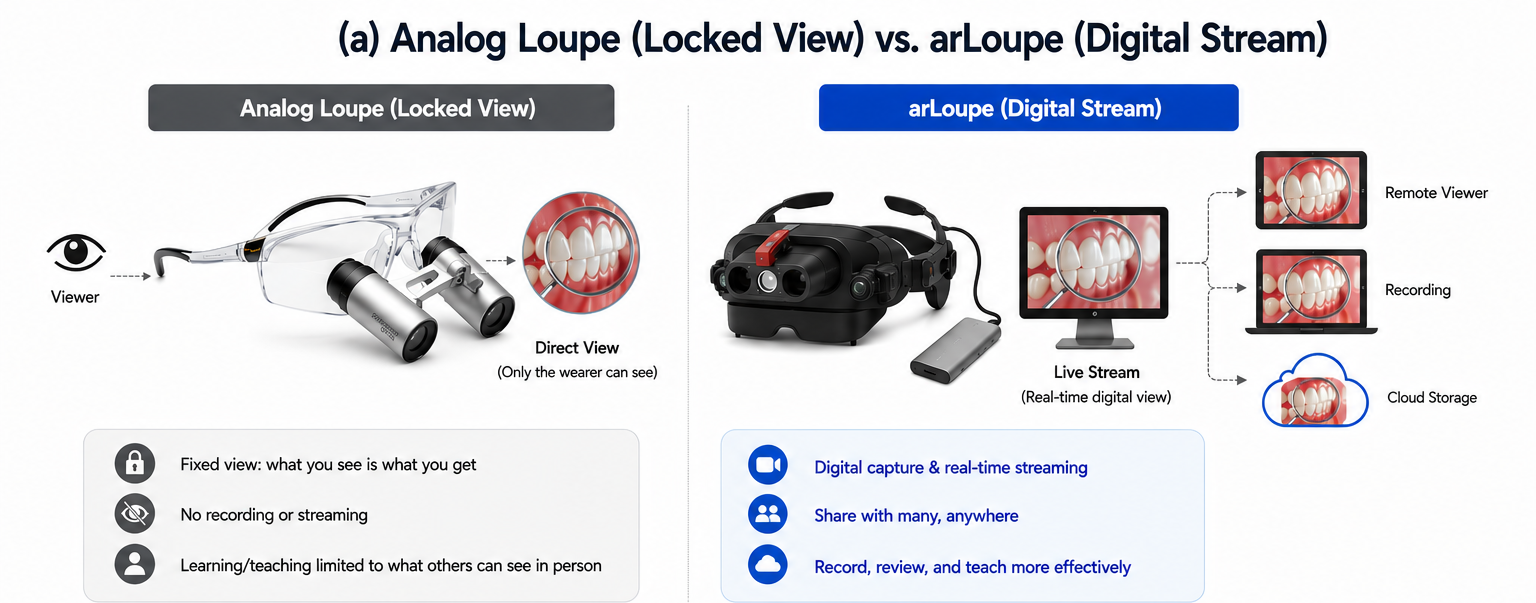
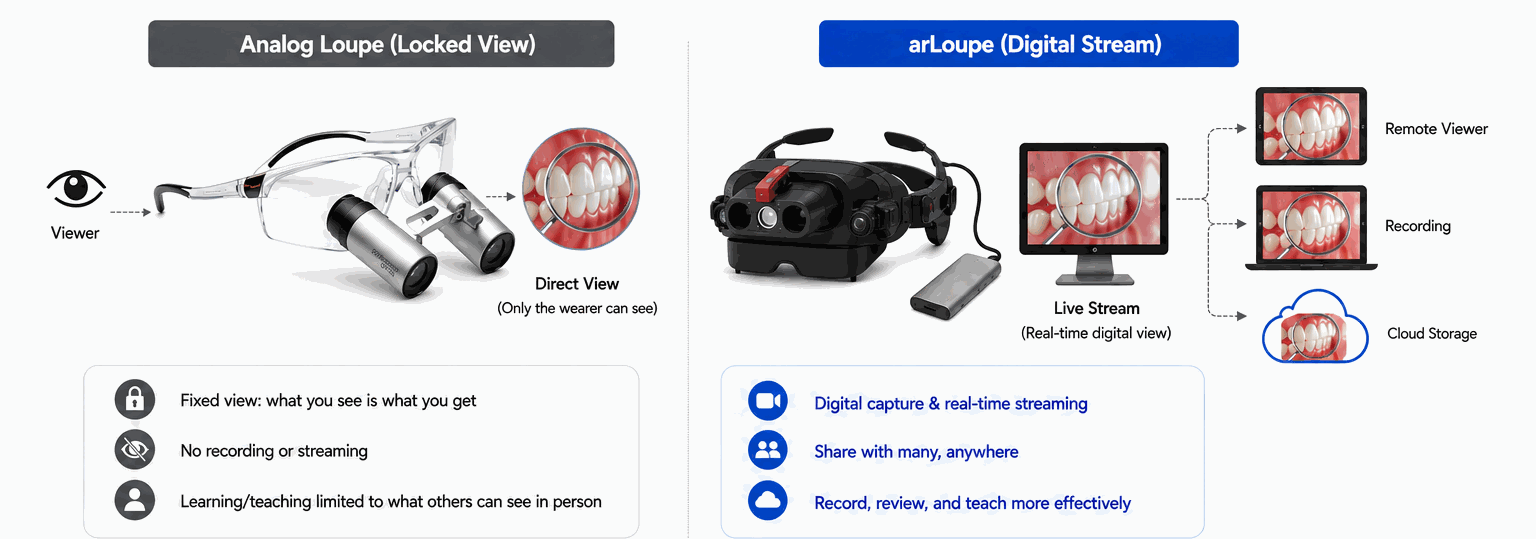
Optimize images and remove diagram (a)/(b) title labels
- Crop the standalone "(a)"/"(b)" title rows off the two comparison
  diagrams so each reads on its own; the colored section-header bars now
  lead them. No content clipped.
- Compress the heavy photography: convert the product and magnified-detail
  shots from PNG to optimized JPG, resize/re-encode the large in-use JPGs.
  Total site imagery drops ~9.4 MB -> ~1.3 MB for much faster loads.
- Update the PNG->JPG references on Home and Products (EN / zh-CN / zh-TW).

diff --git a/Products.html b/Products.html
@@ -324,7 +324,7 @@
     </div>
     <div class="models-grid">
       <div class="mcard rv">
-        <div class="ph"><img src="assets/product-gw-wireless.png" alt="arLoupe G-W wireless in use" loading="lazy" onerror="this.closest('.ph').classList.add('brk')"></div>
+        <div class="ph"><img src="assets/product-gw-wireless.jpg" alt="arLoupe G-W wireless in use" loading="lazy" onerror="this.closest('.ph').classList.add('brk')"></div>
         <div class="mbody">
           <span class="mtag">G-W · Wireless</span>
           <h3 class="disp">Freedom of movement</h3>
@@ -334,7 +334,7 @@
         </div>
       </div>
       <div class="mcard rv">
-        <div class="ph"><img src="assets/product-gl-corded.png" alt="arLoupe G-L corded in use" loading="lazy" onerror="this.closest('.ph').classList.add('brk')"></div>
+        <div class="ph"><img src="assets/product-gl-corded.jpg" alt="arLoupe G-L corded in use" loading="lazy" onerror="this.closest('.ph').classList.add('brk')"></div>
         <div class="mbody">
           <span class="mtag">G-L · Corded</span>
           <h3 class="disp">All-day endurance</h3>

diff --git a/zh-CN/Products.html b/zh-CN/Products.html
@@ -328,7 +328,7 @@
     </div>
     <div class="models-grid">
       <div class="mcard rv">
-        <div class="ph"><img src="../assets/product-gw-wireless.png" alt="arLoupe G-W wireless in use" loading="lazy" onerror="this.closest('.ph').classList.add('brk')"></div>
+        <div class="ph"><img src="../assets/product-gw-wireless.jpg" alt="arLoupe G-W wireless in use" loading="lazy" onerror="this.closest('.ph').classList.add('brk')"></div>
         <div class="mbody">
           <span class="mtag">G-W · 无线</span>
           <h3 class="disp">自由移动</h3>
@@ -338,7 +338,7 @@
         </div>
       </div>
       <div class="mcard rv">
-        <div class="ph"><img src="../assets/product-gl-corded.png" alt="arLoupe G-L corded in use" loading="lazy" onerror="this.closest('.ph').classList.add('brk')"></div>
+        <div class="ph"><img src="../assets/product-gl-corded.jpg" alt="arLoupe G-L corded in use" loading="lazy" onerror="this.closest('.ph').classList.add('brk')"></div>
         <div class="mbody">
           <span class="mtag">G-L · 有线</span>
           <h3 class="disp">全天续航</h3>

diff --git a/zh-TW/Products.html b/zh-TW/Products.html
@@ -328,7 +328,7 @@
     </div>
     <div class="models-grid">
       <div class="mcard rv">
-        <div class="ph"><img src="../assets/product-gw-wireless.png" alt="arLoupe G-W wireless in use" loading="lazy" onerror="this.closest('.ph').classList.add('brk')"></div>
+        <div class="ph"><img src="../assets/product-gw-wireless.jpg" alt="arLoupe G-W wireless in use" loading="lazy" onerror="this.closest('.ph').classList.add('brk')"></div>
         <div class="mbody">
           <span class="mtag">G-W · 無線</span>
           <h3 class="disp">自由移動</h3>
@@ -338,7 +338,7 @@
         </div>
       </div>
       <div class="mcard rv">
-        <div class="ph"><img src="../assets/product-gl-corded.png" alt="arLoupe G-L corded in use" loading="lazy" onerror="this.closest('.ph').classList.add('brk')"></div>
+        <div class="ph"><img src="../assets/product-gl-corded.jpg" alt="arLoupe G-L corded in use" loading="lazy" onerror="this.closest('.ph').classList.add('brk')"></div>
         <div class="mbody">
           <span class="mtag">G-L · 有線</span>
           <h3 class="disp">全天續航</h3>

diff --git a/index.html b/index.html
@@ -351,7 +351,7 @@
     </div>
     <div class="pillars">
       <div class="pillar rv">
-        <div class="ph"><img src="assets/magnified-detail.png" alt="Magnification comparison" loading="lazy" onerror="this.closest('.ph').classList.add('brk')"></div>
+        <div class="ph"><img src="assets/magnified-detail.jpg" alt="Magnification comparison" loading="lazy" onerror="this.closest('.ph').classList.add('brk')"></div>
         <div class="pbody">
           <div class="pk">See more</div>
           <h3 class="disp">High-Fidelity Clinical Intelligence</h3>

diff --git a/zh-CN/index.html b/zh-CN/index.html
@@ -354,7 +354,7 @@
     </div>
     <div class="pillars">
       <div class="pillar rv">
-        <div class="ph"><img src="../assets/magnified-detail.png" alt="Magnification comparison" loading="lazy" onerror="this.closest('.ph').classList.add('brk')"></div>
+        <div class="ph"><img src="../assets/magnified-detail.jpg" alt="Magnification comparison" loading="lazy" onerror="this.closest('.ph').classList.add('brk')"></div>
         <div class="pbody">
           <div class="pk">看得更清</div>
           <h3 class="disp">高保真临床洞察</h3>

diff --git a/zh-TW/index.html b/zh-TW/index.html
@@ -354,7 +354,7 @@
     </div>
     <div class="pillars">
       <div class="pillar rv">
-        <div class="ph"><img src="../assets/magnified-detail.png" alt="Magnification comparison" loading="lazy" onerror="this.closest('.ph').classList.add('brk')"></div>
+        <div class="ph"><img src="../assets/magnified-detail.jpg" alt="Magnification comparison" loading="lazy" onerror="this.closest('.ph').classList.add('brk')"></div>
         <div class="pbody">
           <div class="pk">看得更清</div>
           <h3 class="disp">高保真臨床洞察</h3>
